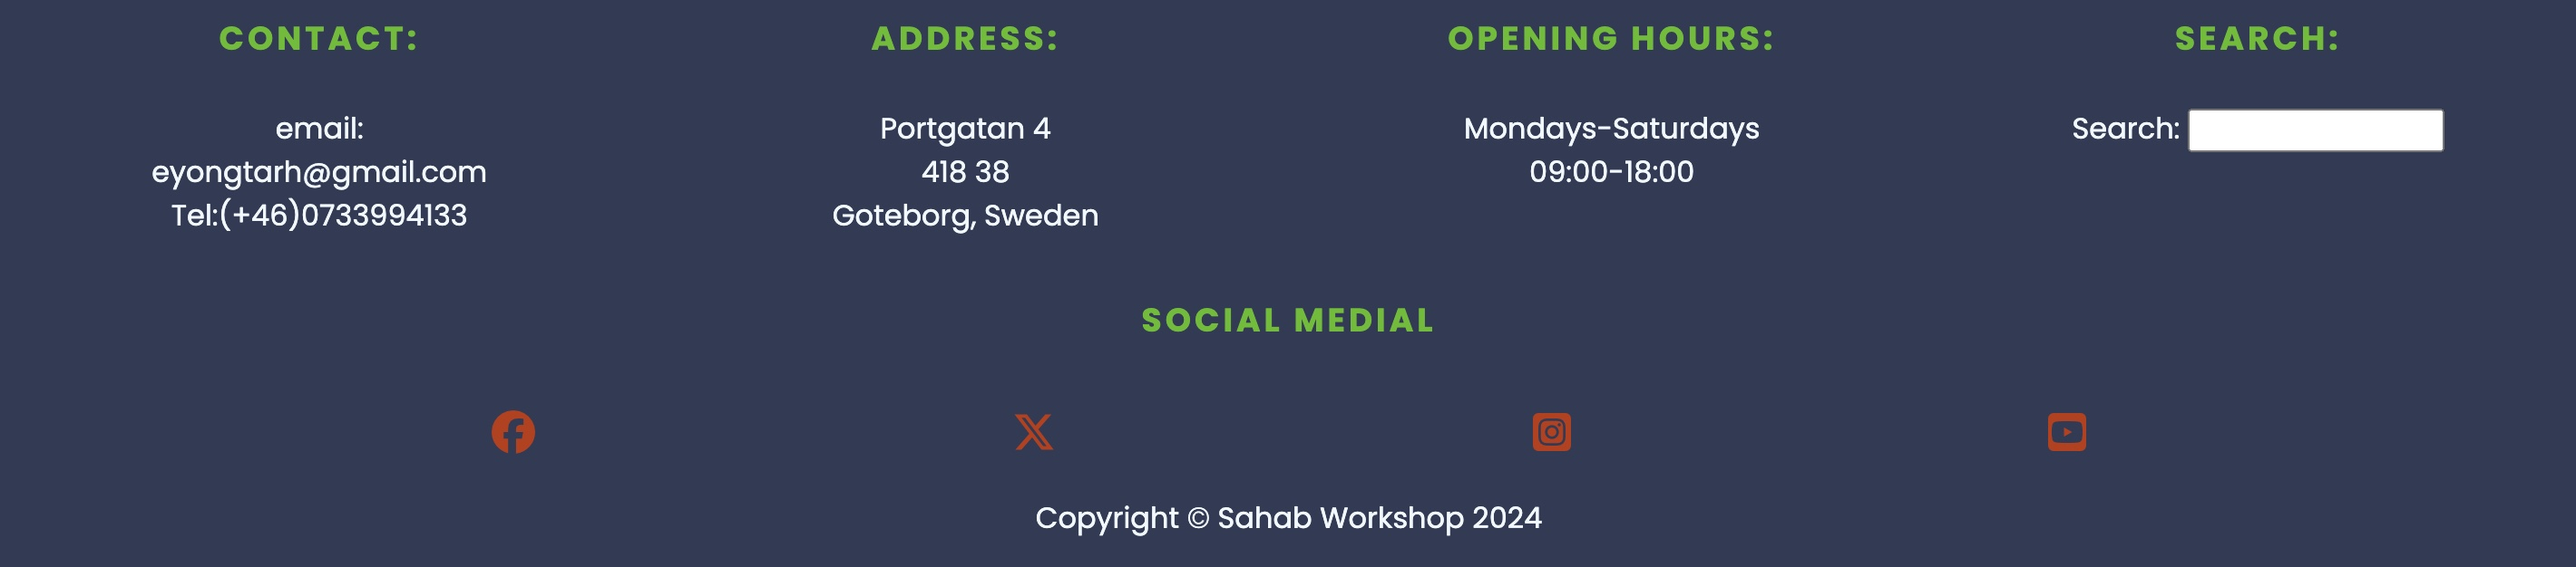
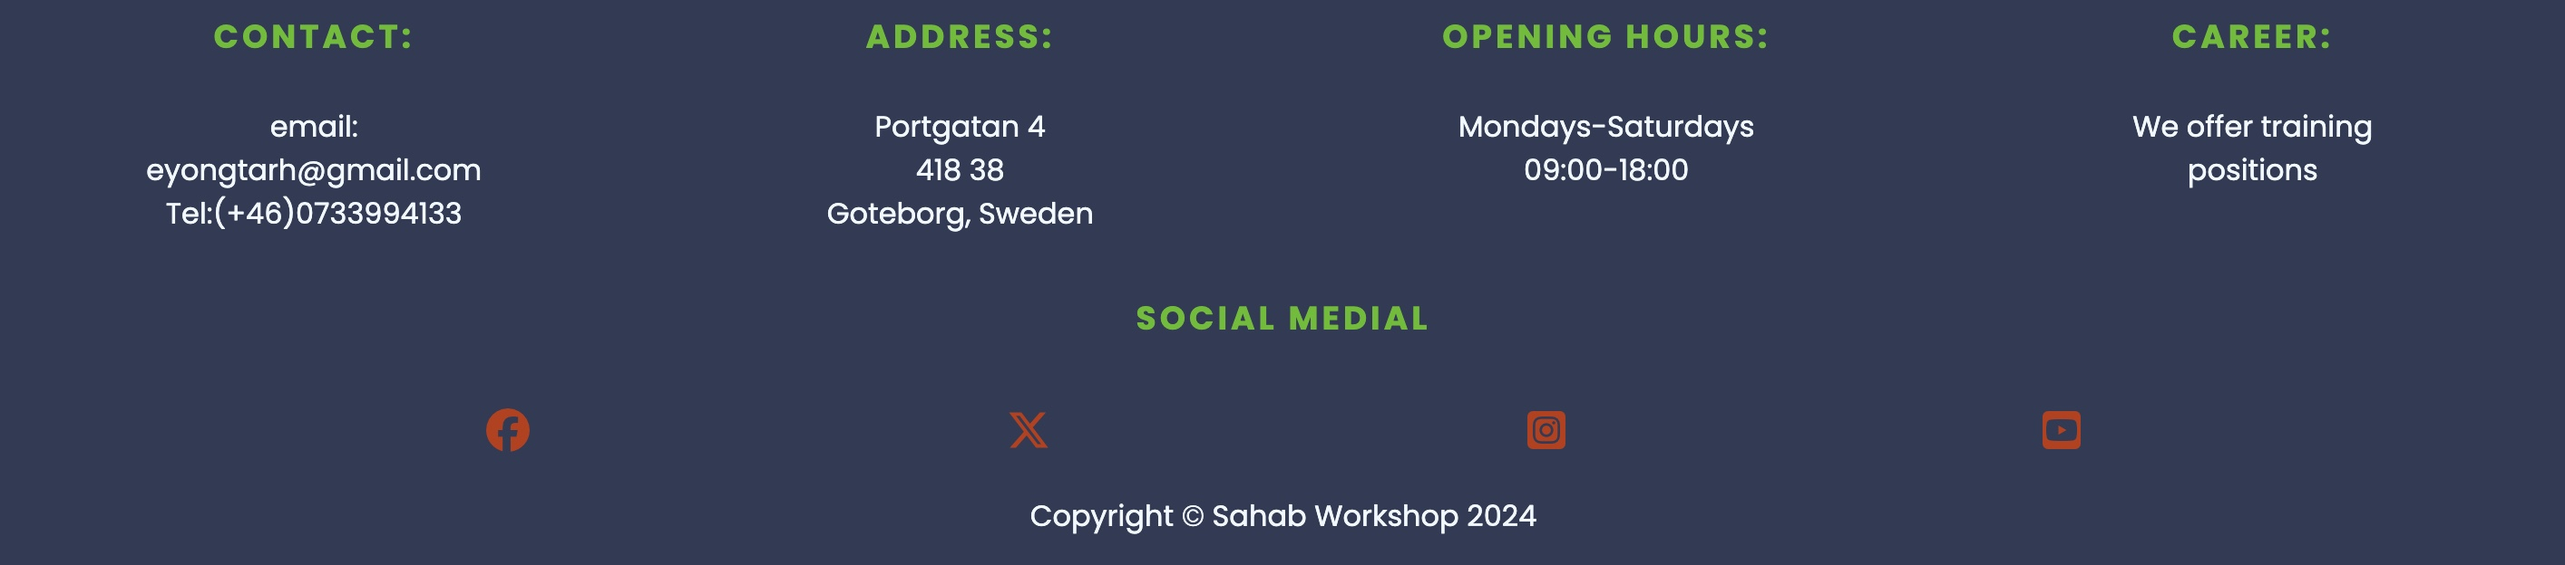
fix content of footer in readme file and also changed the image in images folder

diff --git a/README.md b/README.md
@@ -64,7 +64,7 @@ The footer is diveded into two parts: contact information and Social media as sh
 
 #### Contact information
 
-The first part of the footer contains the contact information, address, opening hours and search bar. 
+The first part of the footer contains the contact information, address, opening hours and career. 
 
 
 #### Socia Media
